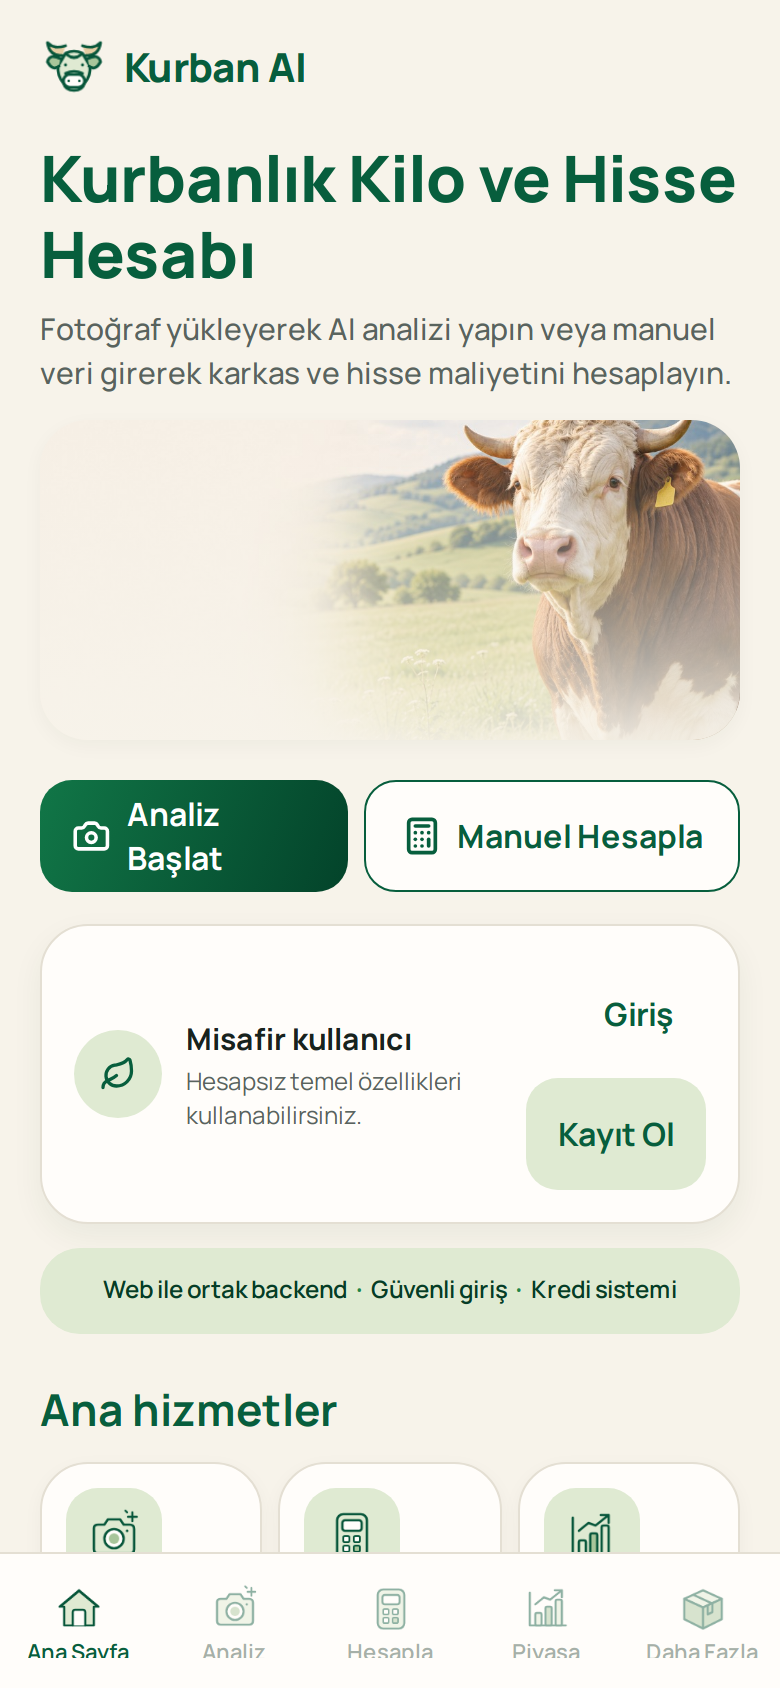
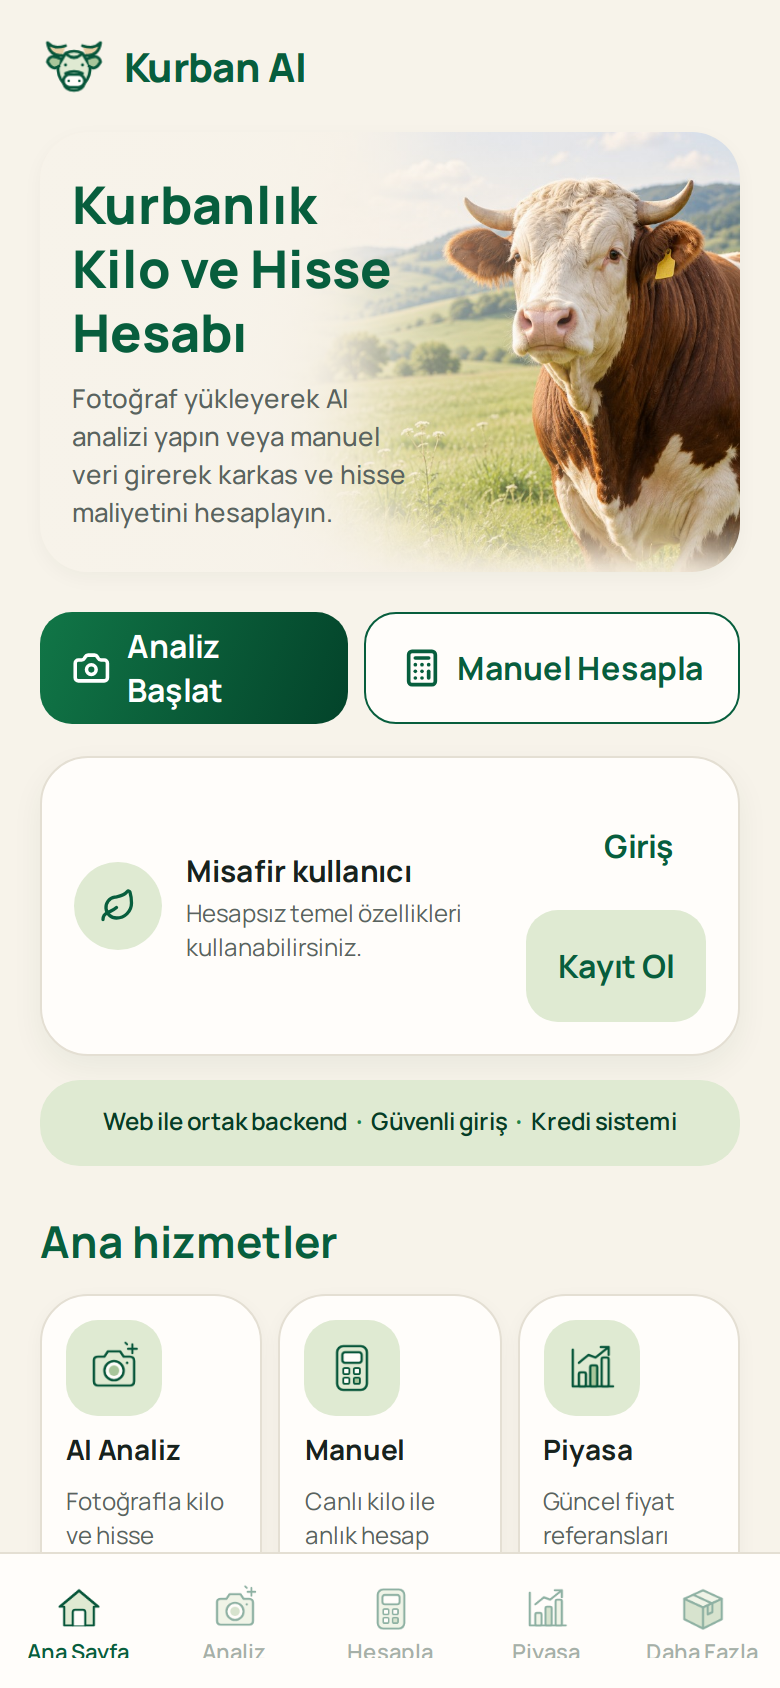
fix(ui): ana sayfa hero’da başlık ve boğa görselini birleştir
Başlık ve açıklamayı hero görselinin sol fade alanına taşıyarak
ayrık blok hissini kaldır; tek kompozisyon oluştur.

diff --git a/src/app/(tabs)/index.tsx b/src/app/(tabs)/index.tsx
@@ -28,26 +28,32 @@ export default function HomeScreen() {
     <ScreenScroll>
       <BrandMark />
 
-      <View style={styles.hero}>
+      <View style={styles.hero} accessibilityLabel="Kurbanlık büyükbaş görseli">
+        <Image
+          source={require("../../../assets/images/heroes/cow-hero.jpg")}
+          style={styles.heroImage}
+          contentFit="cover"
+          contentPosition="right center"
+          transition={200}
+        />
+        <LinearGradient
+          colors={[
+            "rgba(247,243,234,0.98)",
+            "rgba(247,243,234,0.88)",
+            "rgba(247,243,234,0.35)",
+            "rgba(247,243,234,0)",
+          ]}
+          locations={[0, 0.32, 0.58, 0.82]}
+          start={{ x: 0, y: 0.5 }}
+          end={{ x: 1, y: 0.5 }}
+          style={styles.heroFade}
+        />
         <View style={styles.heroCopy}>
           <Text style={styles.heroTitle}>Kurbanlık Kilo ve Hisse Hesabı</Text>
           <Text style={styles.heroText}>
             Fotoğraf yükleyerek AI analizi yapın veya manuel veri girerek karkas
             ve hisse maliyetini hesaplayın.
           </Text>
-        </View>
-        <View style={styles.heroMedia}>
-          <Image
-            source={require("../../../assets/images/heroes/cow-hero.jpg")}
-            style={styles.heroImage}
-            contentFit="cover"
-            transition={200}
-            accessibilityLabel="Kurbanlık büyükbaş görseli"
-          />
-          <LinearGradient
-            colors={["rgba(247,243,234,0)", "rgba(247,243,234,0.92)"]}
-            style={styles.heroFade}
-          />
         </View>
       </View>
 
@@ -180,32 +186,41 @@ export default function HomeScreen() {
 
 const styles = StyleSheet.create({
   hero: {
-    marginTop: spacing.xl,
-    gap: spacing.md,
+    marginTop: spacing.lg,
+    height: 220,
+    borderRadius: radius.xl,
+    overflow: "hidden",
+    backgroundColor: colors.background,
+    ...shadows.soft,
+  },
+  heroImage: {
+    ...StyleSheet.absoluteFill,
+  },
+  heroFade: {
+    ...StyleSheet.absoluteFill,
   },
   heroCopy: {
+    position: "absolute",
+    left: 0,
+    top: 0,
+    bottom: 0,
+    width: "58%",
+    justifyContent: "center",
+    paddingHorizontal: spacing.lg,
+    paddingVertical: spacing.md,
     gap: spacing.sm,
   },
   heroTitle: {
-    ...typography.hero,
+    fontFamily: fonts.extraBold,
+    fontSize: 26,
+    lineHeight: 32,
     color: colors.primary,
   },
   heroText: {
     ...typography.body,
+    fontSize: 13,
+    lineHeight: 19,
     color: colors.textSecondary,
-  },
-  heroMedia: {
-    height: 160,
-    borderRadius: radius.xl,
-    overflow: "hidden",
-    ...shadows.soft,
-  },
-  heroImage: {
-    width: "100%",
-    height: "100%",
-  },
-  heroFade: {
-    ...StyleSheet.absoluteFill,
   },
   ctaRow: {
     marginTop: spacing.xl,
